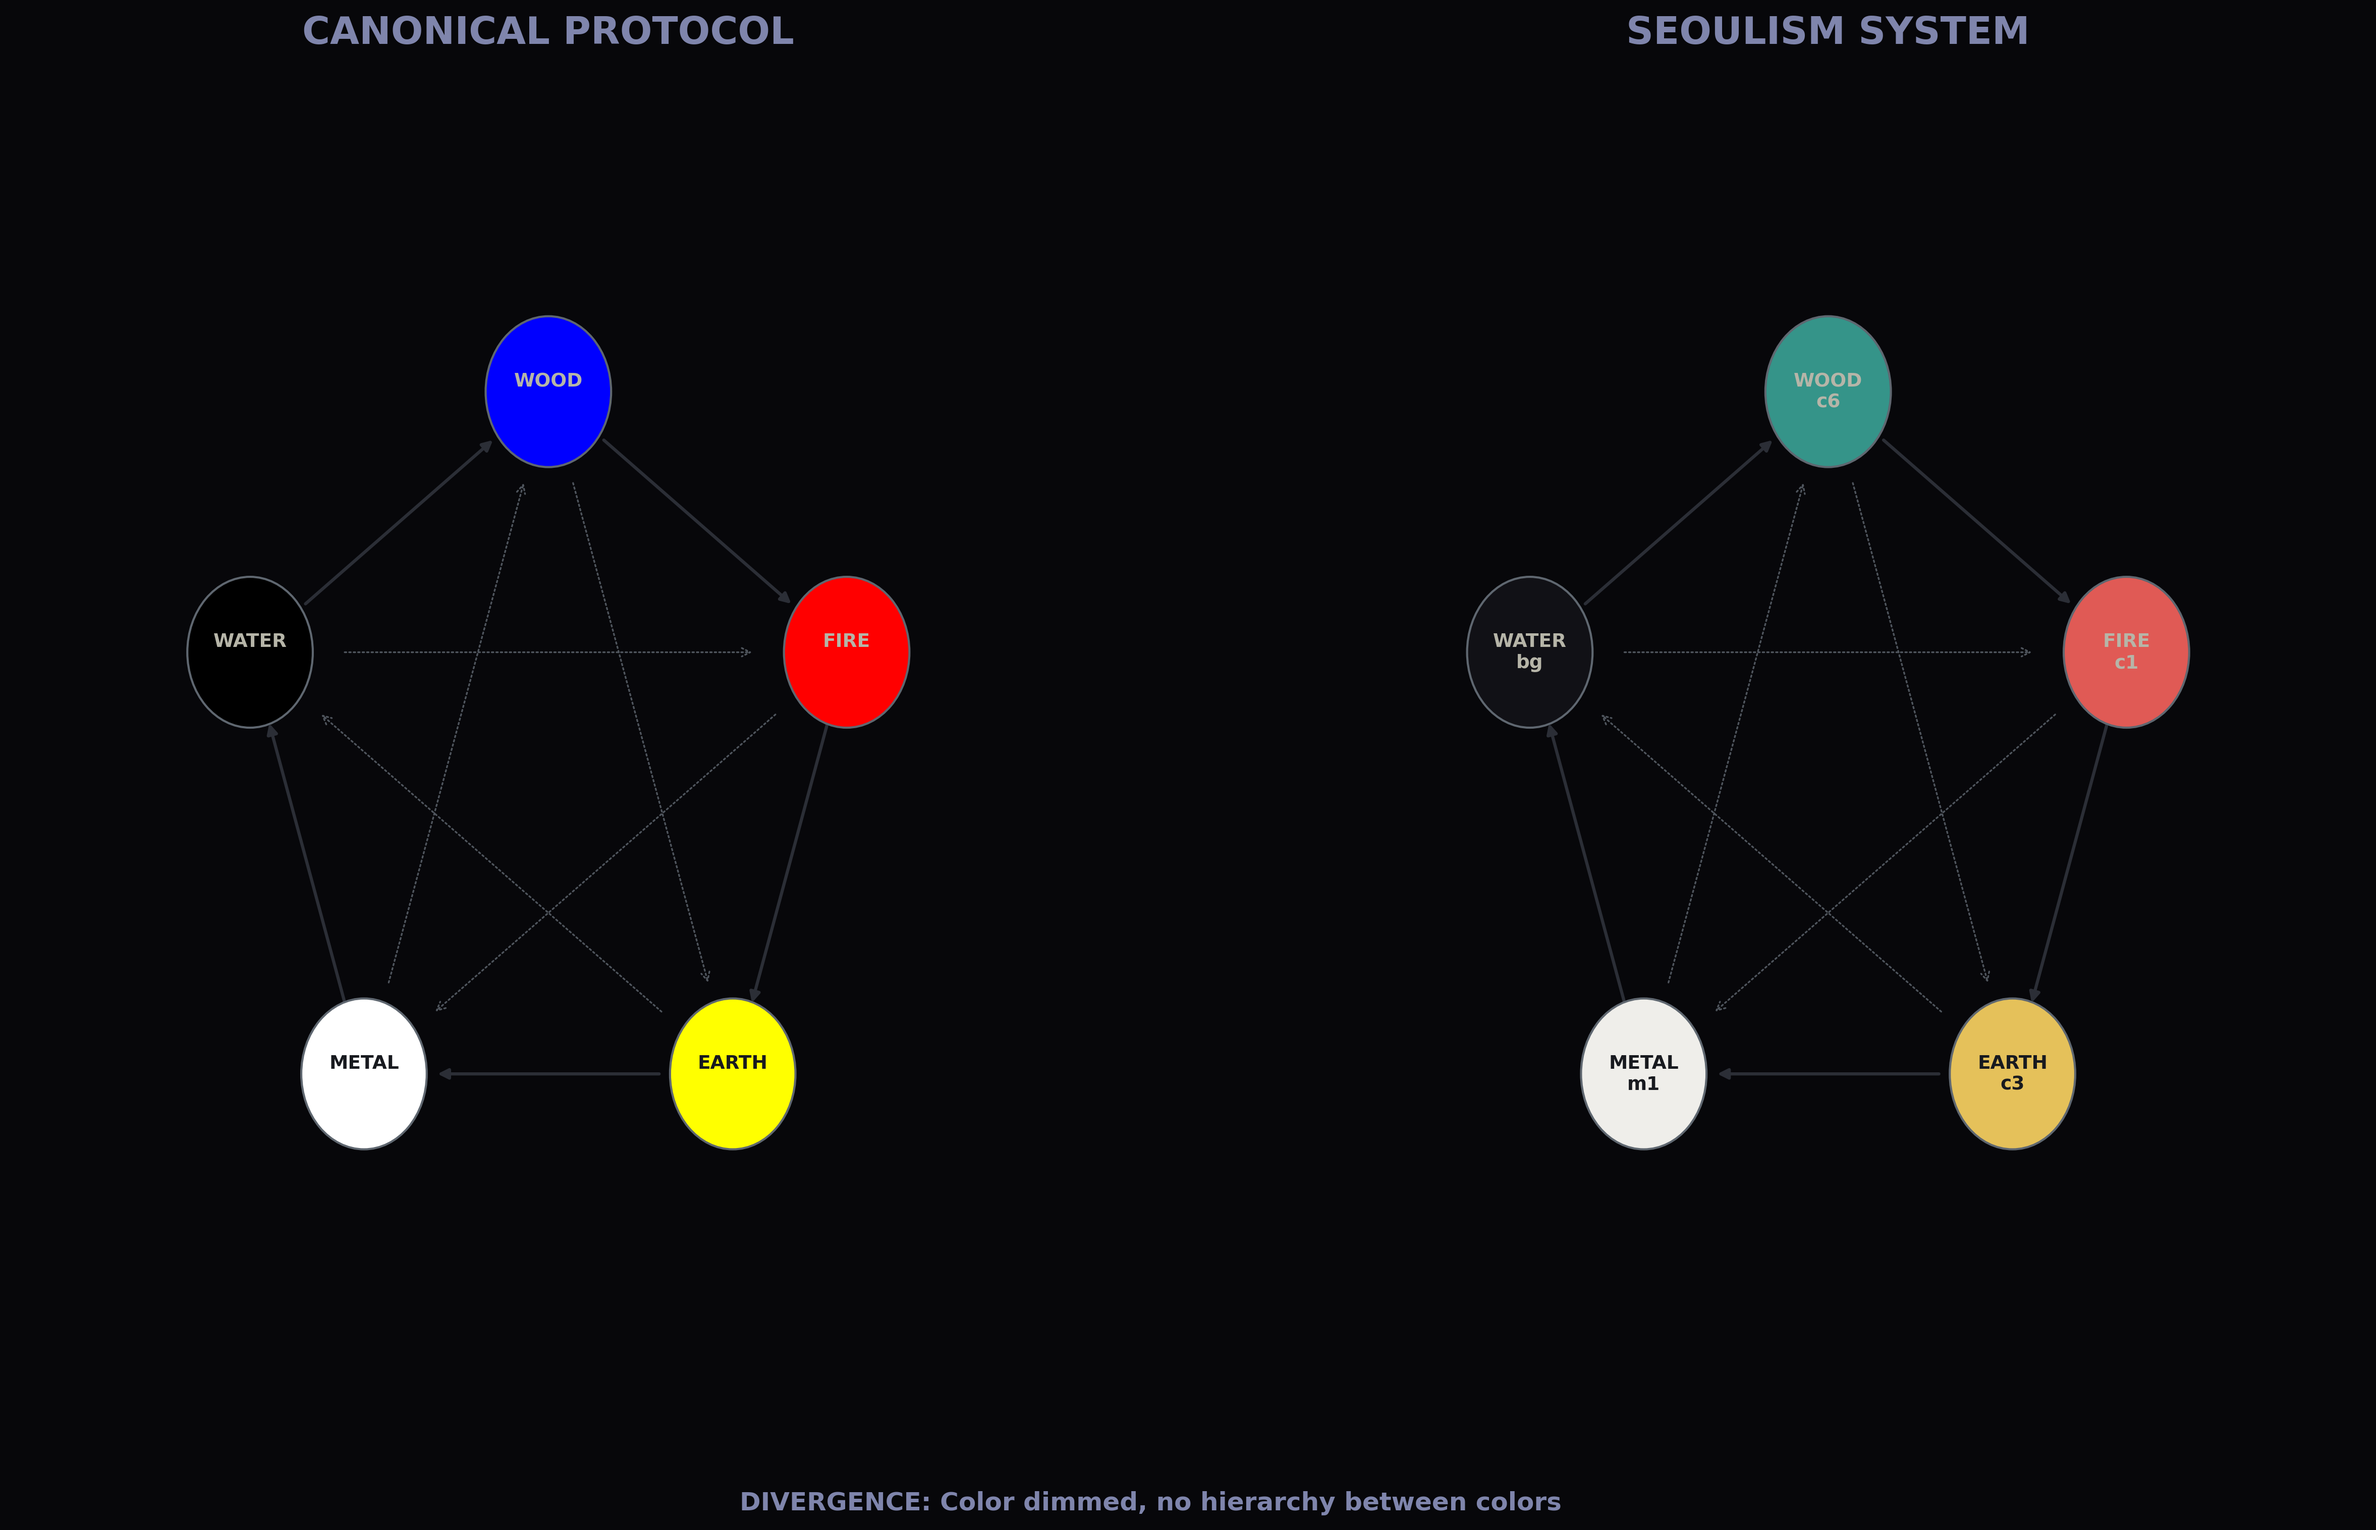
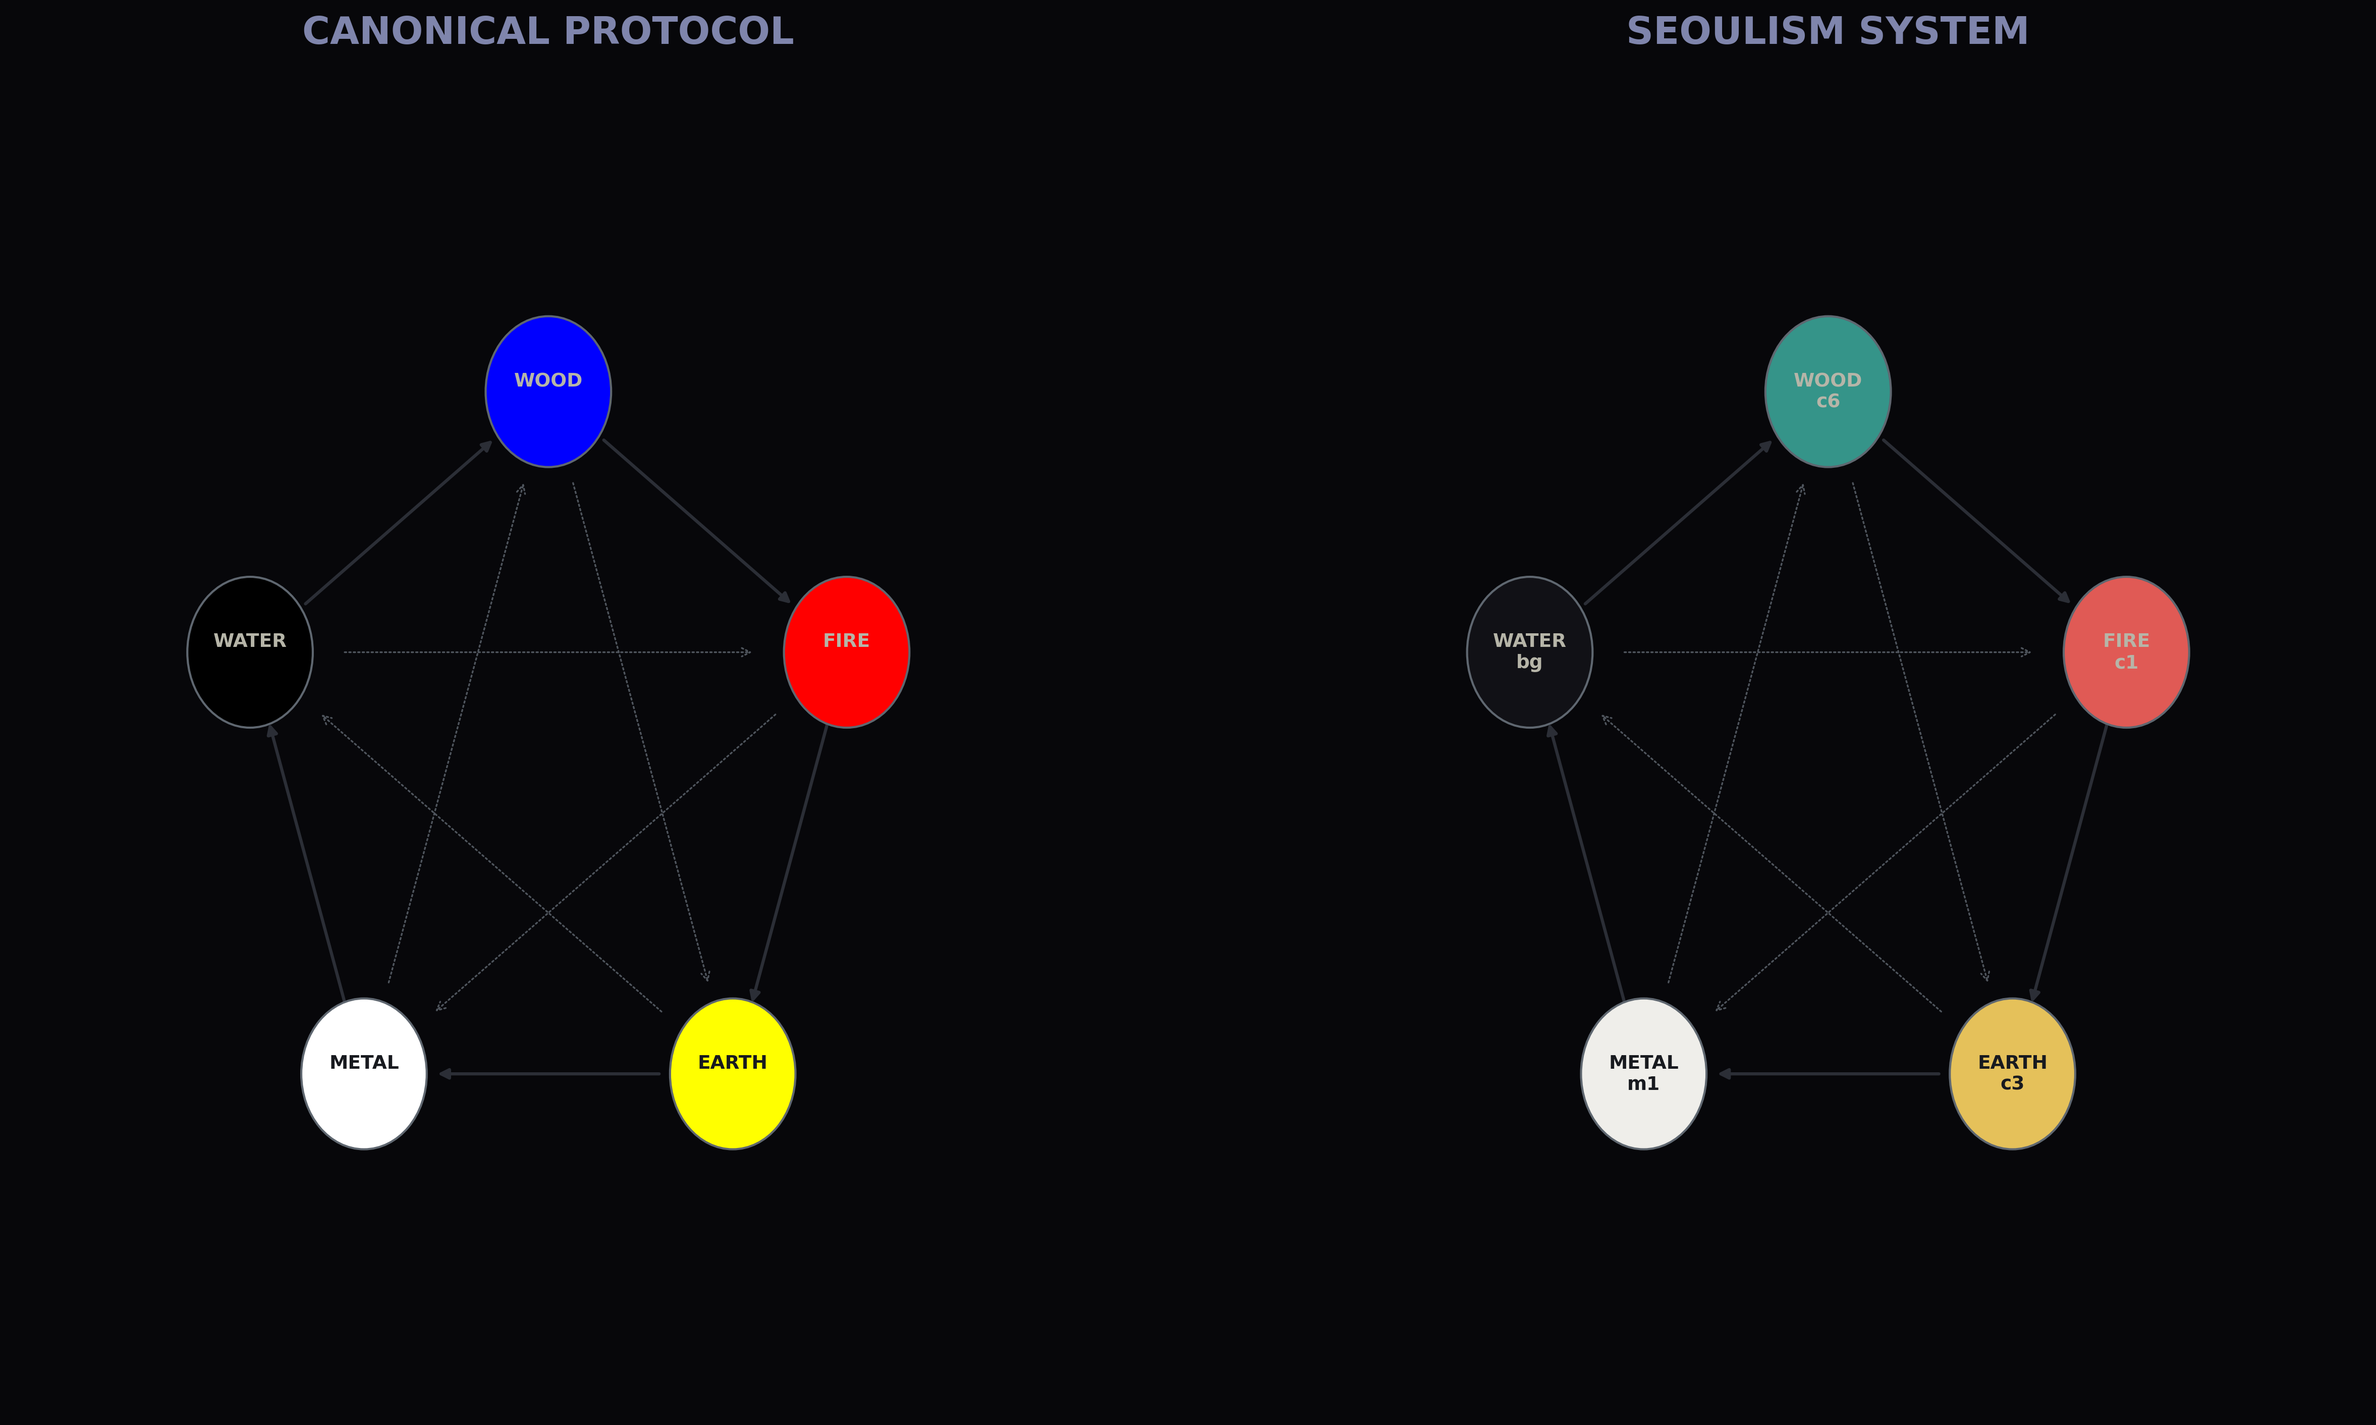
update pentagon

diff --git a/pentagon.py b/pentagon.py
@@ -44,9 +44,6 @@ def draw_systemic_divergence():
     render_layer(ax1, "trad", "CANONICAL PROTOCOL")
     render_layer(ax2, "seoul", "SEOULISM SYSTEM", is_seoul=True)
 
-    plt.figtext(0.5, 0.05, "DIVERGENCE: Color dimmed, no hierarchy between colors", 
-                color='#7f85ac', fontsize=12, ha='center', fontweight='bold')
-
     plt.savefig('pentagon_cycle.png', facecolor='#07070a', dpi=300, bbox_inches='tight')
 
 if __name__ == "__main__":
